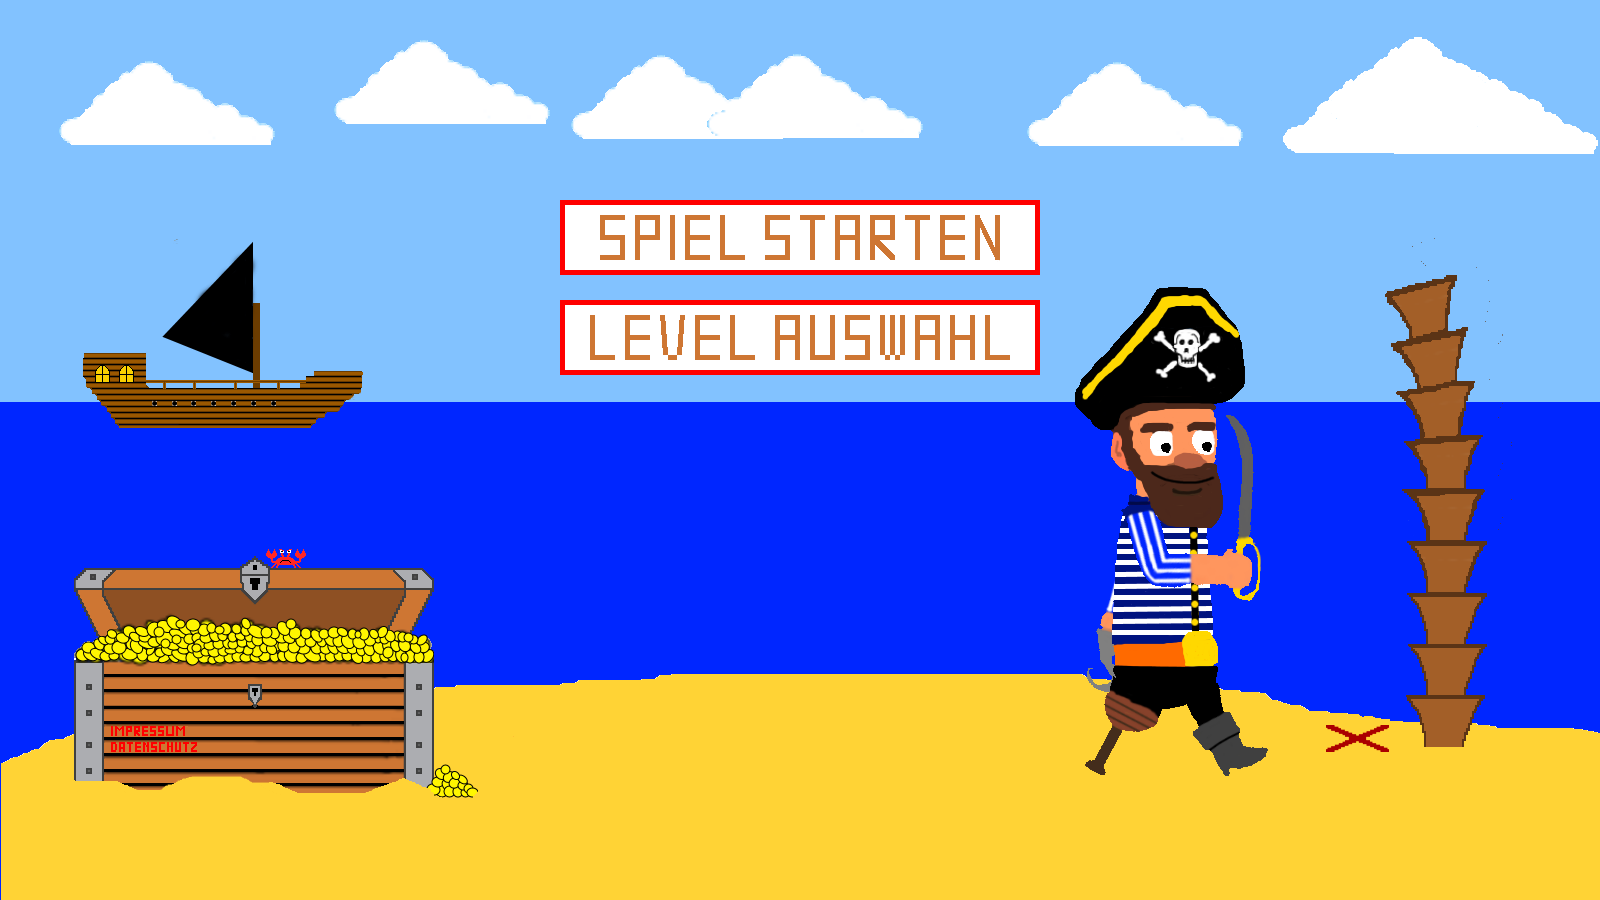
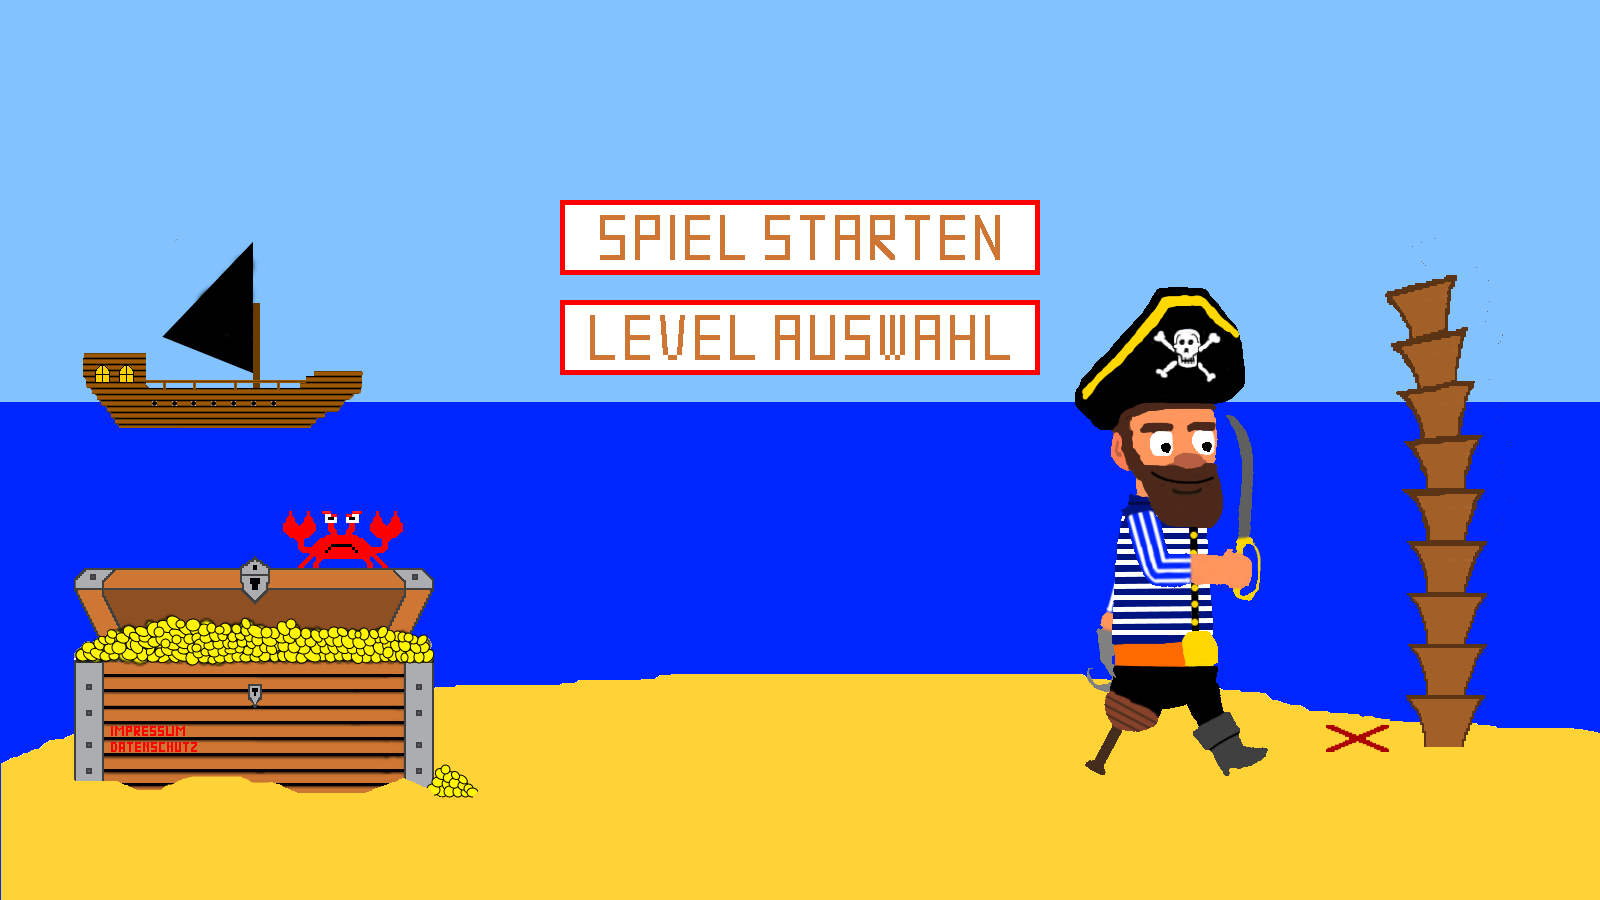
NK: Wolken bewegen sich, Anpassung Bilder

diff --git a/Sidescroller/javascript/Main_Menue.js b/Sidescroller/javascript/Main_Menue.js
@@ -1,8 +1,29 @@
-
+var shiftCloudOne = 4;
+var startXCloudOne = 100;
+var startYCloudOne = 100;
+var startXCloudOneCopy;
+
+var shiftCloudTwo = 2;
+var startXCloudTwo = 400;
+var startYCloudTwo = 35;
+var startXCloudTwoCopy;
+
+var shiftCloudThree = 3;
+var startXCloudThree = 900;
+var startYCloudThree = 50;
+var startXCloudThreeCopy;
+
+var shiftCloudFour = 4;
+var startXCloudFour = 600;
+var startYCloudFour = 100;
+var startXCloudFourCopy;
+
+
 function init() {
     setConfigs();
     fillImages();
     console.log("images loaded");
+    
     loadMainMenue();
 }
 
@@ -16,10 +37,39 @@ function draw() {
     ctx.clearRect(0, 0, 1000, 200);
     console.log("draw");
     ctx.drawImage(mainMenue, 0, 0);
+    drawClouds();
+
+    
    
 }
 
+function drawClouds() {
+  
+    startXCloudTwo = paintCloud(startXCloudTwo, startYCloudTwo, wolkenformatZwei, startXCloudTwoCopy, shiftCloudTwo);
+    startXCloudOne = paintCloud(startXCloudOne, startYCloudOne, wolkenformatEins, startXCloudOneCopy, shiftCloudOne);
+    startXCloudThree = paintCloud(startXCloudThree, startYCloudThree, wolkenformatDrei, startXCloudThreeCopy, shiftCloudThree);
+    startXCloudFour = paintCloud(startXCloudFour, startYCloudFour, wolkenformatEins, startXCloudFourCopy, shiftCloudFour);
+
+}
+
+function paintCloud(startX ,startY,  cloudType, startXCopy, speed) {
+    ctx.drawImage(cloudType, startX, startY);
+    
+    if ((startX + cloudType.width) >= 1600) {
+        startXCopy = startX - 1600;
+        ctx.drawImage(cloudType, startXCopy, startY);
+        console.log("Wolke Copy wird gemacht");
+        if (startX >= 1600) {
+            startX = startXCopy;
+        }
+    }
+    startX += speed;
+    return startX;
+}
+
+
+
 function loop() {
     draw();
-   setTimeout(loop, 100);
+   setTimeout(loop, 40);
 }

diff --git a/Sidescroller/javascript/Imagefiller.js b/Sidescroller/javascript/Imagefiller.js
@@ -21,6 +21,10 @@ function fillImages() {
     death_pirate_image = new Image();
 
     mainMenue = new Image();
+    wolkenformatEins = new Image();
+    wolkenformatZwei = new Image();
+    wolkenformatDrei = new Image();
+
     //alle blockelemente sind png mit 20x20px
 	// und sollen elemente im raster 50x50px werden
     grassBlock = new Image();
@@ -37,6 +41,9 @@ function fillImages() {
     death_pirate_image.src = '../images/Toter_Pirat.png';
 
     mainMenue.src = '../images/hintergrund_menue.png';
+    wolkenformatEins.src = '../images/wolkenformat_Eins.png';
+    wolkenformatZwei.src = '../images/wolkenformat_Zwei.png';
+    wolkenformatDrei.src = '../images/wolkenformat_Drei.png';
 
     earthBlock.src = '../images/erdblock.png';
     grassBlock.src = '../images/block.png';
